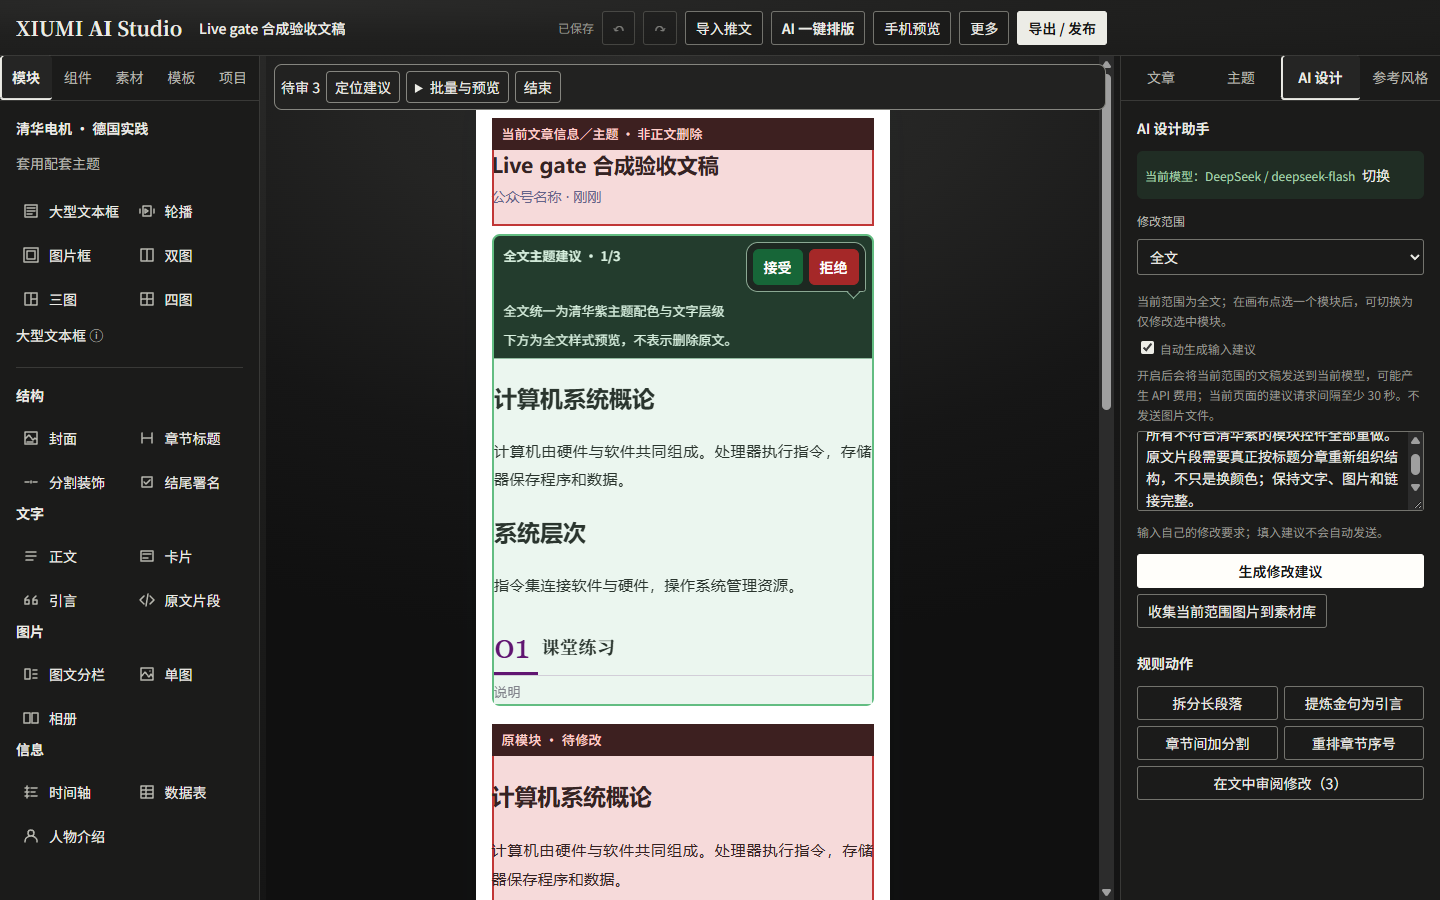
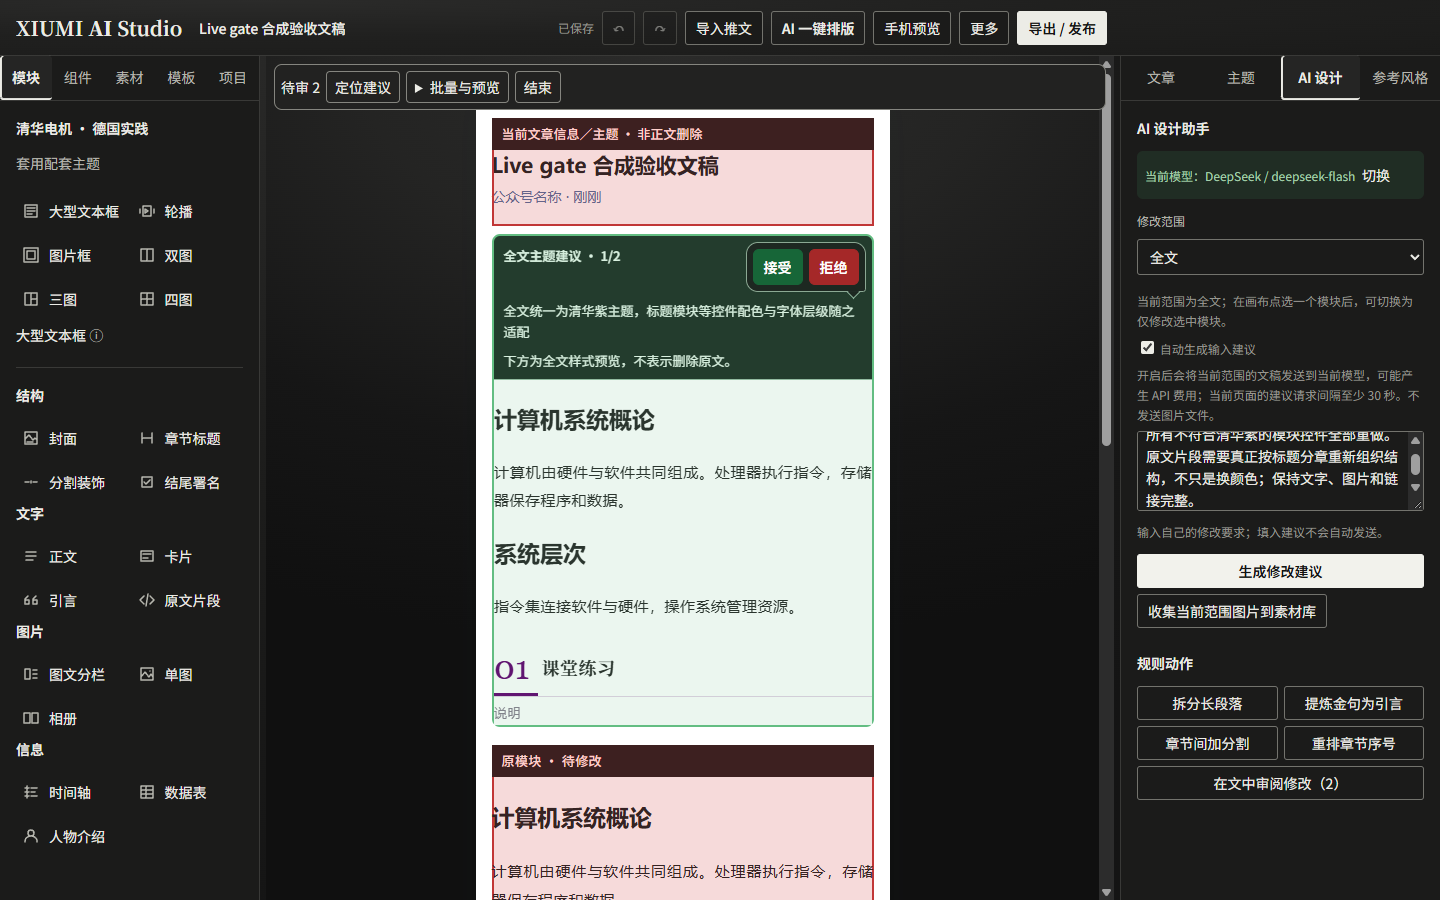
docs: record complete upload-hardening coverage and browser gate

Changed region(s): [[0.3438, 0.3422, 0.625, 1.0], [0.75, 0.4667, 0.7812, 0.4978]]

diff --git a/docs/qa/sonar-security-followup.md b/docs/qa/sonar-security-followup.md
@@ -93,3 +93,17 @@ not a hidden service failure. Original production 5174 remains untouched.
 - This local verification is not a new Sonar analysis or Quality Gate pass. The last verified Cloud analysis still targets historical 5018a4e; main/upstream publication remains gated on current-candidate quality verification.
 
 - Browser run: 131 passed, one legacy assertion counted the new selection-control glyph as article text, and two serial successors did not run. The two corresponding empty-article assertions now target `.block-html`, with a separate assertion for the real selection button; no product source was changed. The complete seven-case components file then passed, including both blocked successors. Thus all 134 scenarios have passing evidence for the same frozen product source, but this is explicitly a full run plus targeted rerun, not a claim that the first full invocation passed. Remote CI will rerun the full suite on the exact commit.
+
+- Preview 5176 was rebuilt/restarted at 4f807b2; original production 5174 remains untouched. A headed desktop live gate on the saved deepseek-flash profile passed (10.6 seconds): the real settings connection-test UI reached stage=complete and displayed the final server message, full-document AI returned chapters layout, selected-heading editing stayed in scope, accepting/saving/reloading succeeded. Settings file SHA-256 was identical before/after. No provider mocks or credentials in the report. New evidence is docs/qa/live/model-gate.json and visual-evidence/live-gate-layout.png.
+
+- Exact 4f807b2 remote CI completed with 133/134 browser scenarios passing; all earlier check/coverage/build/deployment steps passed. The remaining test timed out tapping workspace-right. Downloaded trace confirms the mobile context used automatic light mode while that switcher belongs to the dark responsive layout. Commit 3699d6a explicitly initializes dark mode for the dark-layout image keyboard/touch cases; no product source or behavior assertion was relaxed. The entire controls file then passed 6/6 locally. A new exact-commit full CI run is still required after integration.
+
+## Upload-resource hardening candidate 8656eff
+
+- Integrated disk-backed multipart storage and a shared two-request upload/processing admission gate, preserving 30 MiB per file and 64 MiB cumulative file payload per request. Upload deadline is 120 seconds; downstream model deadline remains unchanged. Response disconnect does not release admission before business processing finishes. The independent follow-up verifies explicit 429 connection closure and one-shot parser completion.
+- Final full-source unit gate: 1,223 tests in 137 test files pass. All 118 production JS/TS files across src, server, scripts and templates are counted: statements 97.00% (10430/10752), branches 92.19% (7907/8576), functions 97.33% (2740/2815), lines 98.41% (7908/8035). Per-file hashes and scope remain in expanded-source-coverage.json. No business file is excluded to meet the threshold.
+- Deployment Pester: 20 passed, zero failed; command coverage remains 211/215 (98.14%), with unsupported metrics reported N/A separately. ESLint and TypeScript pass; isolated production build passes with the existing bundle-size warning. Generated Playwright report/build/coverage artifacts are ignored by ESLint, not production source.
+- Full browser regression is being rerun using a hidden independent test runner because execution-connection resets interrupted earlier invocations. Incomplete invocations are not reported as passes. The runner uses isolated ports 5273/5274 and data-e2e, not production 5174 or preview data.
+- Last actual Sonar analysis remains 4f807b2 and its Overall Gate is ERROR. Current-candidate reanalysis and exact-commit remote CI are still pending. A 30 MiB upload exceeds the Sonar recommendation of 8,000,000 bytes; capacity hardening must not be described as automatically removing that rule or as a false positive. Payload limits do not cap Sharp decoded image memory, all import processing, or scratch files left after process hard-kill.
+
+- Final complete browser invocation on 8656eff: Playwright HTML report records 134/134 expected, zero unexpected/flaky/skipped, no global errors, duration 408.8 seconds; .last-run.json also reports passed. Windows PowerShell's ErrorAction=Stop subsequently classified a native NO_COLOR warning as a harness exception. The independently parsed full report is preserved by hash and aggregate in browser-gate-8656eff.json; this is not a claim that the PowerShell wrapper exit was zero. No additional browser run was needed or started.
